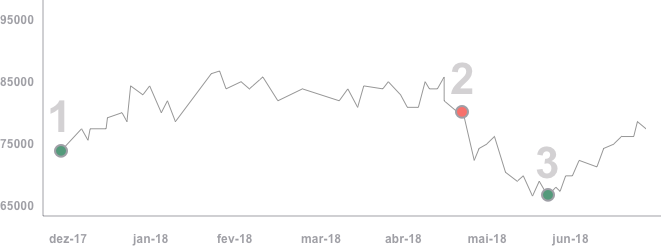
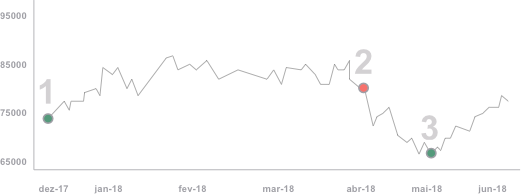
Email semestral

diff --git a/relatorio.html b/relatorio.html
@@ -10,9 +10,9 @@
 </head>
 
 <body style="margin:0;padding: 0">
-  <table border="0" width="780" cellspacing="0" cellpadding="0">
-    <tr style="background: #C3E4D9;height: 1040px;" valign="top">
-      <td width="60"> </td>
+  <table border="0" width="600" cellspacing="0" cellpadding="0">
+    <tr style="background: #C3E4D9;height: 520px;" valign="top">
+      <td width="38"> </td>
       <td>
 
         <table border="0" cellspacing="0" cellpadding="0" width="100%">
@@ -28,7 +28,7 @@
                 <br /> próximos meses</span>
             </td>
           </tr>
-          <tr height="162">
+          <tr height="52">
             <td colspan="2"></td>
           </tr>
           <tr>
@@ -36,7 +36,7 @@
               <img src="https://agora-mail-tesouro.herokuapp.com/triangulo.png" border="0" />
             </td>
           </tr>
-          <tr height="270">
+          <tr height="150">
             <td colspan="2" style="border-bottom: solid 2px #000;text-align: right;font-family: Arial, Helvetica, sans-serif;line-height: 60px;"
               valign="bottom">
               03 de Agosto de 2018
@@ -49,7 +49,7 @@
 
 
       </td>
-      <td width="60"> </td>
+      <td width="38"> </td>
 
     </tr>
 
@@ -57,7 +57,7 @@
 
 
     <tr style="" valign="top">
-      <td width="60"> </td>
+      <td width="38"> </td>
 
       <td>
         <span style="font-family: Arial, Arial-BoldMT;font-size: 45px;color: #9F9FA6;letter-spacing: 1.18px;line-height: 60px; font-weight: bold; margin-bottom: 120px; margin-top: 120px;display: block">Nossas previsões para 2018 são positivas. Entenda o porquê.</span>
@@ -461,7 +461,7 @@
         <!-- /// -->
       </td>
 
-      <td width="60"> </td>
+      <td width="38"> </td>
 
     </tr>
 
